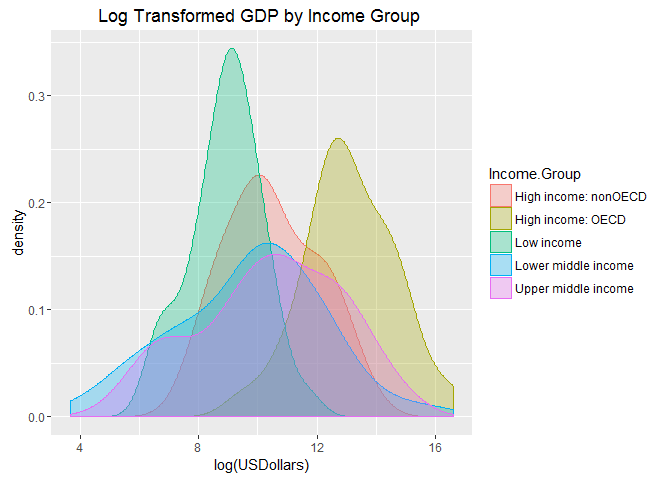
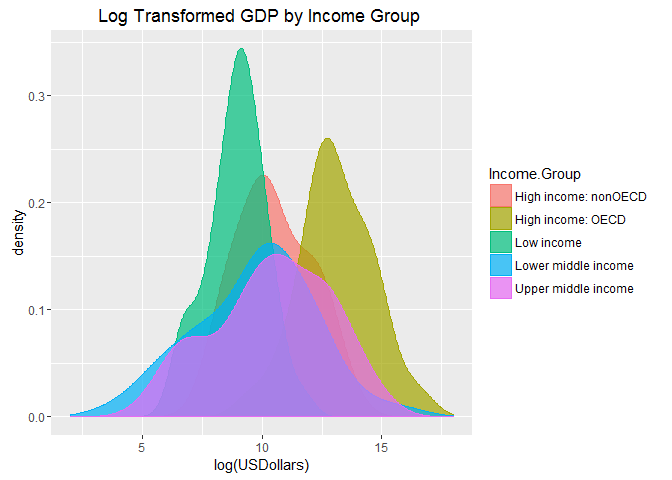
density graph descr.

diff --git a/Paper/Afrye_Week6CaseStudy.md b/Paper/Afrye_Week6CaseStudy.md
@@ -1836,13 +1836,24 @@ ranking of 91.91304 and average USDollars of $104,349.80(Million).
 
 #### Plot the GDP for all of the countries. Use ggplot2 to color your plot by Income Group.
 
-    ggplot(data=Products_M_Education, aes(USDollars, fill=Income.Group, colour=Income.Group)) + geom_density(alpha = 0.3) + ggtitle("GDP by Income Group") 
+    ggplot(data=Products_M_Education, aes(USDollars, fill=Income.Group, colour=Income.Group)) + geom_density(alpha = 0.7) + ggtitle("GDP by Income Group") 
 
 ![](Afrye_Week6CaseStudy_files/figure-markdown_strict/Q4_DensityPlotRaw-1.png)<!-- -->
 
-    ggplot(data=Products_M_Education, aes(log(USDollars), fill=Income.Group, colour=Income.Group)) + geom_density(alpha = 0.3) + ggtitle("Log Transformed GDP by Income Group ") 
+When plotting the density of GDP values by Income Group in its raw form,
+it is difficult to see any correlations between the groups due to
+extreme outliers and skewness in the data. Taking the logarithm on the
+GDP Dollar Value allows us to review the data more easily.
+
+    ggplot(data=Products_M_Education, aes(log(USDollars), fill=Income.Group, colour=Income.Group)) + geom_density(alpha = 0.7) + ggtitle("Log Transformed GDP by Income Group ") +  xlim(2, 18)
 
 ![](Afrye_Week6CaseStudy_files/figure-markdown_strict/Q4_DensityPlotLogTransformed-1.png)<!-- -->
+
+This density plot shows us the distribution shapes of the transformed
+logarithm GDP Dollar values. This provides us with an easier view of our
+data by removing skewness from outliers. We easily see that the High
+Income:OECD group contains the highest GDP dollar values, since their
+density curve is centered at a higher log(USDollar) value.
 
 ### Question 5
 
